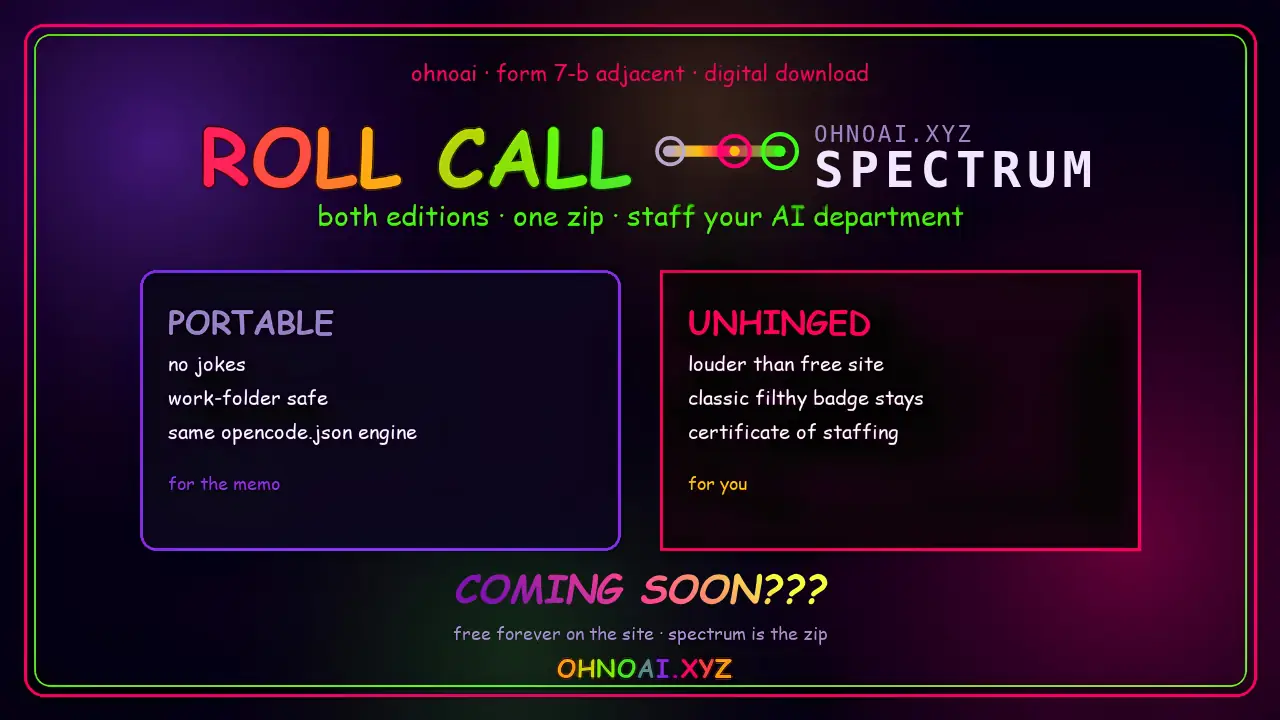
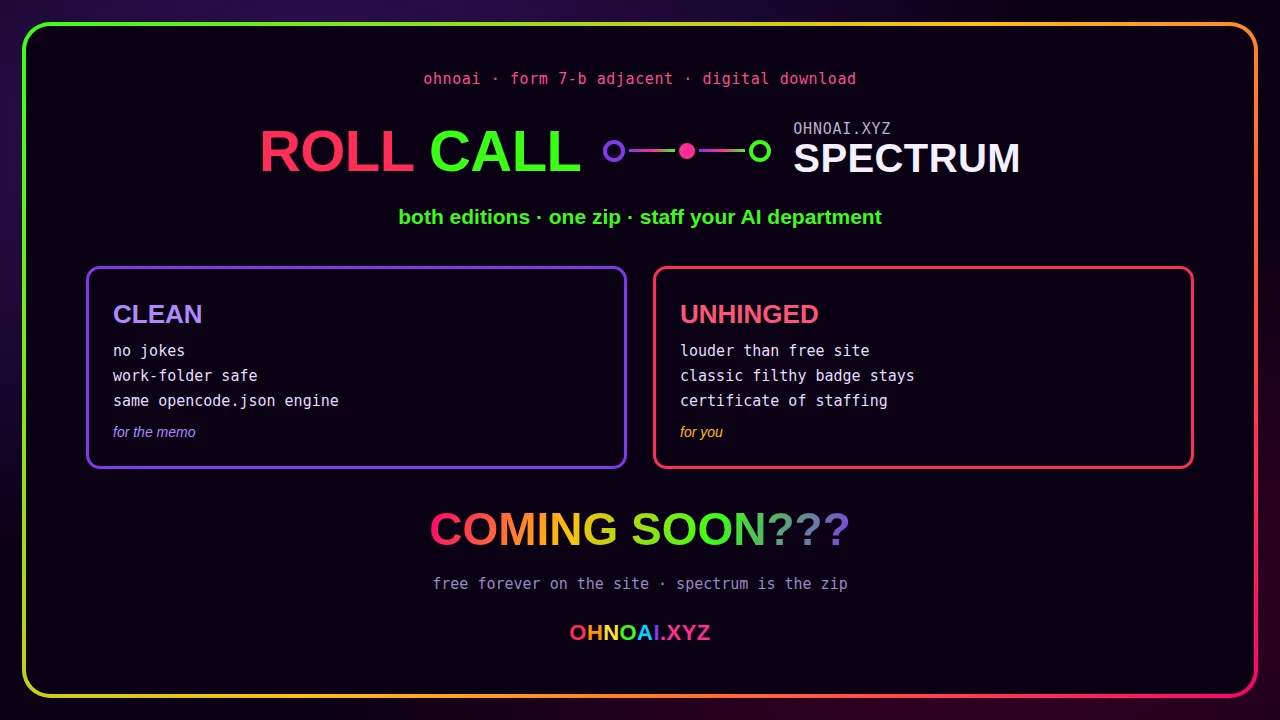
sweep stale Spectrum copy left over from the pre-decision draft
- README: Spectrum heading and badge alt text no longer promise a
  coming-soon state that was never true; badge now describes what's
  actually in the zip
- index.html footer: 'free site stays free forever' -> 'free build
  stays whole, forever', matching the free-tier-already-whole framing
  in the new Spectrum decision record
- badge image: regenerated to fix stale 'PORTABLE' edition name to
  'CLEAN' (the edition has been called Clean for a while, image just
  never got updated)

diff --git a/index.html b/index.html
@@ -418,7 +418,7 @@ select:focus, input[type="range"]:focus { outline: none; border-color: var(--acc
     <a href="https://ohnoai.xyz/tools/" style="color: inherit;">all tools</a> ·
     <a href="agent.md" style="color: inherit;">machine edition</a> ·
     co-morbid with <a href="https://ohnoai.dev" rel="noopener noreferrer" style="color: inherit;">ohnoai.dev</a>
-    · <a href="https://ohnoai.xyz/spectrum/" style="color: inherit;" title="Clean + Unhinged zip">Spectrum</a>: pay the boring tax · free site stays free forever
+    · <a href="https://ohnoai.xyz/spectrum/" style="color: inherit;" title="Clean + Unhinged zip">Spectrum</a>: pay the boring tax · free build stays whole, forever
   </span>
 </footer>
 

diff --git a/README.md b/README.md
@@ -59,9 +59,9 @@ npx --yes serve .
 - The site still ships the tool under `/tools/roll-call/` with the same personality.
 - Site chrome (home / brain spam / tools) links from this isolated copy point at **absolute** `https://ohnoai.xyz/...` URLs so the branding still works off-site.
 
-### Spectrum (paid zip · coming soon)
+### Spectrum (paid zip · link pending)
 
-[![SPECTRUM COMING SOON](assets/roll-call-spectrum.webp)](https://ohnoai.xyz/spectrum/)
+[![Roll Call Spectrum — Clean + Unhinged, one zip](assets/roll-call-spectrum.webp)](https://ohnoai.xyz/spectrum/)
 
 ## License
 
